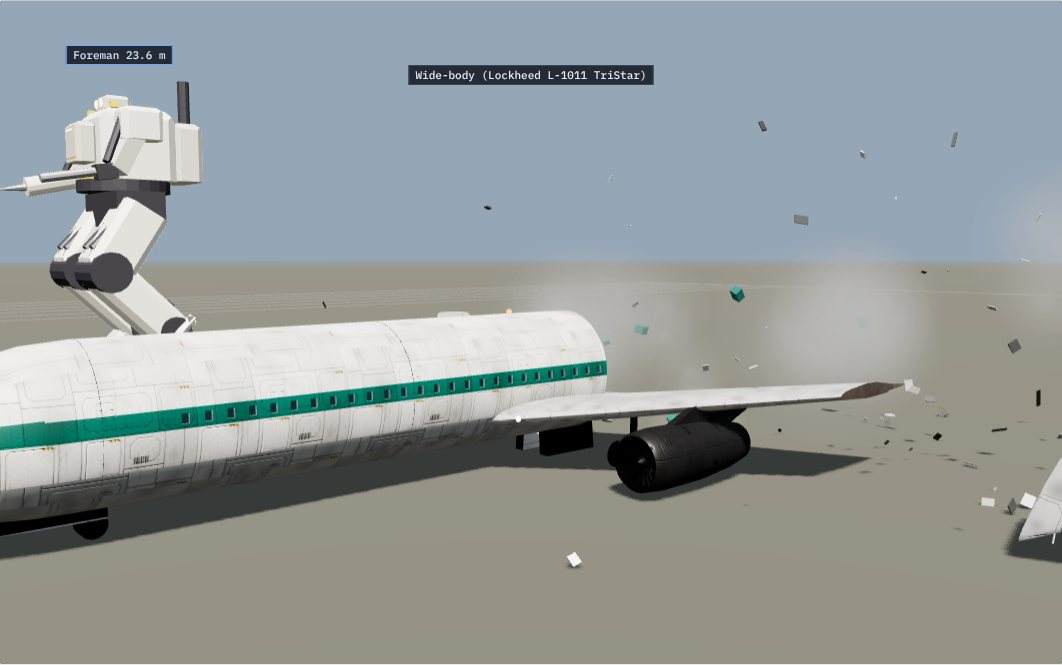
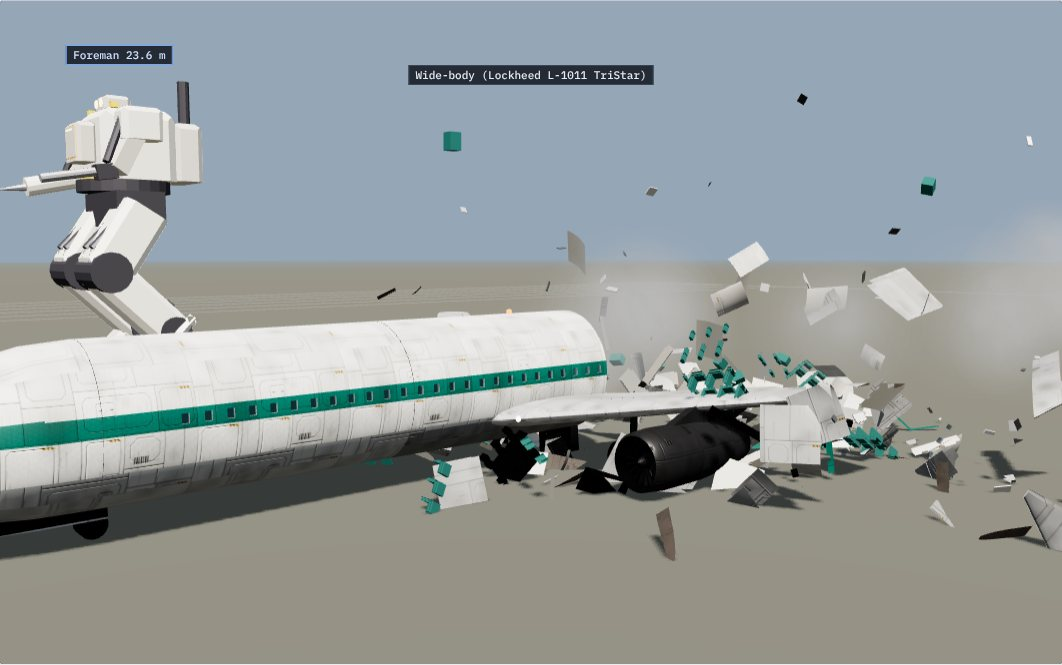
Airliners page: a shot tears big chunks out of the real model, as the boats break
Every triangle near the hit and the torn joint is clipped into 2.2 m cells (the boats' engine's method);
the cells inside fly as chunks of skin, frame, floor and seats, the rest stays as a ragged hole.

Claude-Session: https://claude.ai/code/session_0158CApsWQMLsRjS8gSGiYVS

diff --git a/docs/mockups/airliners.html b/docs/mockups/airliners.html
@@ -389,6 +389,8 @@ document.getElementById("repair").onclick = () => {
   explode.value = 0;
   for (const s of Object.values(planes)) { s.flying = []; for (const z of Object.values(s.zones)) { z.node.position.copy(z.base); z.node.quaternion.copy(z.baseQ); z.node.visible = true; } }
   for (const d of debris) scene.remove(d.mesh); debris.length = 0;
+  for (const g of carved) { g.index.array.set(g.userData.index0); g.index.needsUpdate = true; } carved.length = 0;
+  for (const m of remainders) m.parent && m.parent.remove(m); remainders.length = 0;
   for (const p of puffs) scene.remove(p.sp); puffs.length = 0;
 };
 
@@ -421,8 +423,103 @@ function breakZone(s, z, at) {
   const parent = s.zones[z.z.parent];
   const joint = s.holder.localToWorld(z.centre.clone().add(parent.centre).multiplyScalar(0.5));
   const cabin = /cabin|centre|nose|tail/.test(z.z.name);
-  burst(at || joint, out, cabin, s.man.livery_seat);
-  if (at) burst(joint, out, cabin, s.man.livery_seat, 0.5);
+  // big chunks of the real model, as the boats break: the skin, frames and seats round the hit and both sides of the
+  // torn joint come away in cells of about 2.5 m
+  if (at) carve(s, z.node, at, 4.5, out);
+  carve(s, z.node, joint, 3.0, out);
+  carve(s, parent.node, joint, 2.6, out.clone().negate());
+  burst(at || joint, out, cabin, s.man.livery_seat, 0.45);
+  if (at) burst(joint, out, cabin, s.man.livery_seat, 0.25);
+}
+// Cut a zone's own meshes (its children's are left) into cells of about CHUNK metres round a world point, as the boats'
+// engine cuts a ship (docs/mockups/building_engine.js, fromObject): every triangle touching a cell within `r` is
+// clipped to the cells it crosses; the clipped pieces inside become chunks of the real model, thrown out; the pieces
+// outside are handed back to the zone as a remainder mesh, so the hull keeps a ragged hole, not a missing strip.
+// Repair puts it all back.
+const CHUNK = 2.2;
+const carved = [], remainders = [];
+function clipPoly(poly, axis, at, keep) {
+  const out = [];
+  for (let i = 0; i < poly.length; i++) {
+    const p = poly[i], q = poly[(i + 1) % poly.length];
+    const dp = (p.v.getComponent(axis) - at) * keep, dq = (q.v.getComponent(axis) - at) * keep;
+    if (dp >= 0) out.push(p);
+    if ((dp >= 0) !== (dq >= 0)) {
+      const t = dp / (dp - dq);
+      out.push({ v: p.v.clone().lerp(q.v, t), n: p.n.clone().lerp(q.n, t), u: p.u.clone().lerp(q.u, t) });
+    }
+  }
+  return out;
+}
+function carve(s, zoneNode, at, r, out) {
+  const cells = new Map();
+  const cellNear = (i, j, k) => new T.Vector3((i + 0.5) * CHUNK, (j + 0.5) * CHUNK, (k + 0.5) * CHUNK).distanceTo(at) <= r;
+  for (const mesh of s.meshes) {
+    if (!mesh.visible || zoneOf(mesh) !== zoneNode || !mesh.geometry.index) continue;
+    mesh.updateMatrixWorld();
+    const g = mesh.geometry, idx = g.index, pos = g.attributes.position, nrm = g.attributes.normal, uv = g.attributes.uv;
+    if (!g.userData.index0) g.userData.index0 = idx.array.slice();
+    const nm = new T.Matrix3().getNormalMatrix(mesh.matrixWorld);
+    const inv = new T.Matrix4().copy(mesh.matrixWorld).invert(), invN = new T.Matrix3().getNormalMatrix(inv);
+    const rest = { p: [], n: [], u: [] };
+    let touched = false;
+    for (let t = 0; t < idx.count; t += 3) {
+      const ii = [idx.getX(t), idx.getX(t + 1), idx.getX(t + 2)];
+      if (ii[0] === ii[1] && ii[1] === ii[2]) continue;
+      const tri = ii.map(i => ({ v: new T.Vector3().fromBufferAttribute(pos, i).applyMatrix4(mesh.matrixWorld),
+        n: nrm ? new T.Vector3().fromBufferAttribute(nrm, i).applyMatrix3(nm).normalize() : new T.Vector3(0, 1, 0),
+        u: uv ? new T.Vector2(uv.getX(i), uv.getY(i)) : new T.Vector2() }));
+      const lo = [0, 1, 2].map(a => Math.floor(Math.min(...tri.map(q => q.v.getComponent(a))) / CHUNK));
+      const hi = [0, 1, 2].map(a => Math.floor((Math.max(...tri.map(q => q.v.getComponent(a))) - 1e-6) / CHUNK));
+      let near = false;
+      for (let i = lo[0]; i <= hi[0] && !near; i++) for (let j = lo[1]; j <= hi[1] && !near; j++) for (let k = lo[2]; k <= hi[2] && !near; k++) near = cellNear(i, j, k);
+      if (!near) continue;
+      touched = true;
+      idx.setXYZ(t, ii[0], ii[0], ii[0]);
+      for (let i = lo[0]; i <= hi[0]; i++) for (let j = lo[1]; j <= hi[1]; j++) for (let k = lo[2]; k <= hi[2]; k++) {
+        let poly = tri;
+        const cmin = [i * CHUNK, j * CHUNK, k * CHUNK];
+        for (let a = 0; a < 3 && poly.length >= 3; a++) { poly = clipPoly(poly, a, cmin[a], 1); if (poly.length >= 3) poly = clipPoly(poly, a, cmin[a] + CHUNK, -1); }
+        if (poly.length < 3) continue;
+        let dst;
+        if (cellNear(i, j, k)) {
+          const key = i + "," + j + "," + k + "|" + mesh.material.uuid;
+          if (!cells.has(key)) cells.set(key, { mat: mesh.material, p: [], n: [], u: [] });
+          dst = cells.get(key);
+        } else dst = rest;
+        for (let f = 1; f + 1 < poly.length; f++) for (const q of [poly[0], poly[f], poly[f + 1]]) {
+          const v = dst === rest ? q.v.clone().applyMatrix4(inv) : q.v, n = dst === rest ? q.n.clone().applyMatrix3(invN).normalize() : q.n;
+          dst.p.push(v.x, v.y, v.z); dst.n.push(n.x, n.y, n.z); dst.u.push(q.u.x, q.u.y);
+        }
+      }
+    }
+    if (!touched) continue;
+    idx.needsUpdate = true; carved.push(g);
+    if (rest.p.length) {
+      const rm = new T.Mesh(geoOf(rest), mesh.material);
+      rm.castShadow = true; mesh.add(rm); remainders.push(rm);
+    }
+  }
+  for (const cell of cells.values()) {
+    const geo = geoOf(cell);
+    geo.computeBoundingBox();
+    const ctr = geo.boundingBox.getCenter(new T.Vector3());
+    geo.translate(-ctr.x, -ctr.y, -ctr.z);
+    const mat = cell.mat.clone(); mat.side = T.DoubleSide; mat.clippingPlanes = null;
+    const mesh = new T.Mesh(geo, mat);
+    mesh.position.copy(ctr); mesh.castShadow = true;
+    scene.add(mesh);
+    const dir = ctr.clone().sub(at).normalize().addScaledVector(out, 0.7).add(new T.Vector3(0, 0.6, 0)).normalize();
+    const size = geo.boundingBox.getSize(new T.Vector3());
+    debris.push({ mesh, v: dir.multiplyScalar(4 + Math.random() * 7), w: new T.Vector3(Math.random() - 0.5, Math.random() - 0.5, Math.random() - 0.5).multiplyScalar(3), t: 0, half: Math.min(size.x, size.y, size.z) * 0.5 + 0.05, big: true });
+  }
+}
+function geoOf(b) {
+  const geo = new T.BufferGeometry();
+  geo.setAttribute("position", new T.Float32BufferAttribute(b.p, 3));
+  geo.setAttribute("normal", new T.Float32BufferAttribute(b.n, 3));
+  geo.setAttribute("uv", new T.Float32BufferAttribute(b.u, 2));
+  return geo;
 }
 const debris = [], puffs = [];
 const FRAG = new T.BoxGeometry(1, 1, 1);
@@ -457,9 +554,9 @@ function stepDebris(dt) {
     d.v.y -= 9.81 * dt;
     d.mesh.position.addScaledVector(d.v, dt);
     d.mesh.rotateOnAxis(d.w.clone().normalize(), d.w.length() * dt);
-    const half = d.mesh.scale.y * 0.5;
-    if (d.mesh.position.y < half) { d.mesh.position.y = half; d.v.y *= -0.3; d.v.x *= 0.6; d.v.z *= 0.6; d.w.multiplyScalar(0.6); }
-    if (d.t > 14) { scene.remove(d.mesh); debris.splice(i, 1); }
+    const half = d.half != null ? d.half : d.mesh.scale.y * 0.5;
+    if (d.mesh.position.y < half) { d.mesh.position.y = half; d.v.y *= -0.25; d.v.x *= 0.5; d.v.z *= 0.5; d.w.multiplyScalar(0.5); }
+    if (!d.big && d.t > 14) { scene.remove(d.mesh); debris.splice(i, 1); }
   }
   for (let i = puffs.length - 1; i >= 0; i--) {
     const p = puffs[i]; p.t += dt;
@@ -538,7 +635,7 @@ function markReady() { ready = true; }
 window.MOCKUP_SCENE = scene;
 window.MOCKUP_API = { planes, setGear: t => { gearT = gearTarget = t; }, night: v => { night = v; applyNight(); }, cut: v => { cut = v; applyClip(); }, inside, home,
   explode: v => { explode.value = v; },
-  shoot: (id, zone) => { const s = planes[id]; breakZone(s, s.zones[zone], null); }, show: id => { [...pick.children][["all", ...ORDER].indexOf(id)].click(); }, caps: v => { for (const s of Object.values(planes)) for (const c of s.capsules) c.visible = v; },
+  shoot: (id, zone) => { const s = planes[id], z = s.zones[zone]; breakZone(s, z, s.holder.localToWorld(z.centre.clone())); }, show: id => { [...pick.children][["all", ...ORDER].indexOf(id)].click(); }, caps: v => { for (const s of Object.values(planes)) for (const c of s.capsules) c.visible = v; },
   cam: (p, t) => { camera.position.set(...p); controls.target.set(...t); controls.update(); },
   camOn: (id, p, t) => { const h = planes[id].holder; camera.position.copy(h.localToWorld(new T.Vector3(...p))); controls.target.copy(h.localToWorld(new T.Vector3(...t))); controls.update(); }, lod: n => { [...lods.children][n].click(); } };
 function frame(now) {

diff --git a/tools/mockups/airliners_src.html b/tools/mockups/airliners_src.html
@@ -358,6 +358,8 @@ document.getElementById("repair").onclick = () => {
   explode.value = 0;
   for (const s of Object.values(planes)) { s.flying = []; for (const z of Object.values(s.zones)) { z.node.position.copy(z.base); z.node.quaternion.copy(z.baseQ); z.node.visible = true; } }
   for (const d of debris) scene.remove(d.mesh); debris.length = 0;
+  for (const g of carved) { g.index.array.set(g.userData.index0); g.index.needsUpdate = true; } carved.length = 0;
+  for (const m of remainders) m.parent && m.parent.remove(m); remainders.length = 0;
   for (const p of puffs) scene.remove(p.sp); puffs.length = 0;
 };
 
@@ -390,8 +392,103 @@ function breakZone(s, z, at) {
   const parent = s.zones[z.z.parent];
   const joint = s.holder.localToWorld(z.centre.clone().add(parent.centre).multiplyScalar(0.5));
   const cabin = /cabin|centre|nose|tail/.test(z.z.name);
-  burst(at || joint, out, cabin, s.man.livery_seat);
-  if (at) burst(joint, out, cabin, s.man.livery_seat, 0.5);
+  // big chunks of the real model, as the boats break: the skin, frames and seats round the hit and both sides of the
+  // torn joint come away in cells of about 2.5 m
+  if (at) carve(s, z.node, at, 4.5, out);
+  carve(s, z.node, joint, 3.0, out);
+  carve(s, parent.node, joint, 2.6, out.clone().negate());
+  burst(at || joint, out, cabin, s.man.livery_seat, 0.45);
+  if (at) burst(joint, out, cabin, s.man.livery_seat, 0.25);
+}
+// Cut a zone's own meshes (its children's are left) into cells of about CHUNK metres round a world point, as the boats'
+// engine cuts a ship (docs/mockups/building_engine.js, fromObject): every triangle touching a cell within `r` is
+// clipped to the cells it crosses; the clipped pieces inside become chunks of the real model, thrown out; the pieces
+// outside are handed back to the zone as a remainder mesh, so the hull keeps a ragged hole, not a missing strip.
+// Repair puts it all back.
+const CHUNK = 2.2;
+const carved = [], remainders = [];
+function clipPoly(poly, axis, at, keep) {
+  const out = [];
+  for (let i = 0; i < poly.length; i++) {
+    const p = poly[i], q = poly[(i + 1) % poly.length];
+    const dp = (p.v.getComponent(axis) - at) * keep, dq = (q.v.getComponent(axis) - at) * keep;
+    if (dp >= 0) out.push(p);
+    if ((dp >= 0) !== (dq >= 0)) {
+      const t = dp / (dp - dq);
+      out.push({ v: p.v.clone().lerp(q.v, t), n: p.n.clone().lerp(q.n, t), u: p.u.clone().lerp(q.u, t) });
+    }
+  }
+  return out;
+}
+function carve(s, zoneNode, at, r, out) {
+  const cells = new Map();
+  const cellNear = (i, j, k) => new T.Vector3((i + 0.5) * CHUNK, (j + 0.5) * CHUNK, (k + 0.5) * CHUNK).distanceTo(at) <= r;
+  for (const mesh of s.meshes) {
+    if (!mesh.visible || zoneOf(mesh) !== zoneNode || !mesh.geometry.index) continue;
+    mesh.updateMatrixWorld();
+    const g = mesh.geometry, idx = g.index, pos = g.attributes.position, nrm = g.attributes.normal, uv = g.attributes.uv;
+    if (!g.userData.index0) g.userData.index0 = idx.array.slice();
+    const nm = new T.Matrix3().getNormalMatrix(mesh.matrixWorld);
+    const inv = new T.Matrix4().copy(mesh.matrixWorld).invert(), invN = new T.Matrix3().getNormalMatrix(inv);
+    const rest = { p: [], n: [], u: [] };
+    let touched = false;
+    for (let t = 0; t < idx.count; t += 3) {
+      const ii = [idx.getX(t), idx.getX(t + 1), idx.getX(t + 2)];
+      if (ii[0] === ii[1] && ii[1] === ii[2]) continue;
+      const tri = ii.map(i => ({ v: new T.Vector3().fromBufferAttribute(pos, i).applyMatrix4(mesh.matrixWorld),
+        n: nrm ? new T.Vector3().fromBufferAttribute(nrm, i).applyMatrix3(nm).normalize() : new T.Vector3(0, 1, 0),
+        u: uv ? new T.Vector2(uv.getX(i), uv.getY(i)) : new T.Vector2() }));
+      const lo = [0, 1, 2].map(a => Math.floor(Math.min(...tri.map(q => q.v.getComponent(a))) / CHUNK));
+      const hi = [0, 1, 2].map(a => Math.floor((Math.max(...tri.map(q => q.v.getComponent(a))) - 1e-6) / CHUNK));
+      let near = false;
+      for (let i = lo[0]; i <= hi[0] && !near; i++) for (let j = lo[1]; j <= hi[1] && !near; j++) for (let k = lo[2]; k <= hi[2] && !near; k++) near = cellNear(i, j, k);
+      if (!near) continue;
+      touched = true;
+      idx.setXYZ(t, ii[0], ii[0], ii[0]);
+      for (let i = lo[0]; i <= hi[0]; i++) for (let j = lo[1]; j <= hi[1]; j++) for (let k = lo[2]; k <= hi[2]; k++) {
+        let poly = tri;
+        const cmin = [i * CHUNK, j * CHUNK, k * CHUNK];
+        for (let a = 0; a < 3 && poly.length >= 3; a++) { poly = clipPoly(poly, a, cmin[a], 1); if (poly.length >= 3) poly = clipPoly(poly, a, cmin[a] + CHUNK, -1); }
+        if (poly.length < 3) continue;
+        let dst;
+        if (cellNear(i, j, k)) {
+          const key = i + "," + j + "," + k + "|" + mesh.material.uuid;
+          if (!cells.has(key)) cells.set(key, { mat: mesh.material, p: [], n: [], u: [] });
+          dst = cells.get(key);
+        } else dst = rest;
+        for (let f = 1; f + 1 < poly.length; f++) for (const q of [poly[0], poly[f], poly[f + 1]]) {
+          const v = dst === rest ? q.v.clone().applyMatrix4(inv) : q.v, n = dst === rest ? q.n.clone().applyMatrix3(invN).normalize() : q.n;
+          dst.p.push(v.x, v.y, v.z); dst.n.push(n.x, n.y, n.z); dst.u.push(q.u.x, q.u.y);
+        }
+      }
+    }
+    if (!touched) continue;
+    idx.needsUpdate = true; carved.push(g);
+    if (rest.p.length) {
+      const rm = new T.Mesh(geoOf(rest), mesh.material);
+      rm.castShadow = true; mesh.add(rm); remainders.push(rm);
+    }
+  }
+  for (const cell of cells.values()) {
+    const geo = geoOf(cell);
+    geo.computeBoundingBox();
+    const ctr = geo.boundingBox.getCenter(new T.Vector3());
+    geo.translate(-ctr.x, -ctr.y, -ctr.z);
+    const mat = cell.mat.clone(); mat.side = T.DoubleSide; mat.clippingPlanes = null;
+    const mesh = new T.Mesh(geo, mat);
+    mesh.position.copy(ctr); mesh.castShadow = true;
+    scene.add(mesh);
+    const dir = ctr.clone().sub(at).normalize().addScaledVector(out, 0.7).add(new T.Vector3(0, 0.6, 0)).normalize();
+    const size = geo.boundingBox.getSize(new T.Vector3());
+    debris.push({ mesh, v: dir.multiplyScalar(4 + Math.random() * 7), w: new T.Vector3(Math.random() - 0.5, Math.random() - 0.5, Math.random() - 0.5).multiplyScalar(3), t: 0, half: Math.min(size.x, size.y, size.z) * 0.5 + 0.05, big: true });
+  }
+}
+function geoOf(b) {
+  const geo = new T.BufferGeometry();
+  geo.setAttribute("position", new T.Float32BufferAttribute(b.p, 3));
+  geo.setAttribute("normal", new T.Float32BufferAttribute(b.n, 3));
+  geo.setAttribute("uv", new T.Float32BufferAttribute(b.u, 2));
+  return geo;
 }
 const debris = [], puffs = [];
 const FRAG = new T.BoxGeometry(1, 1, 1);
@@ -426,9 +523,9 @@ function stepDebris(dt) {
     d.v.y -= 9.81 * dt;
     d.mesh.position.addScaledVector(d.v, dt);
     d.mesh.rotateOnAxis(d.w.clone().normalize(), d.w.length() * dt);
-    const half = d.mesh.scale.y * 0.5;
-    if (d.mesh.position.y < half) { d.mesh.position.y = half; d.v.y *= -0.3; d.v.x *= 0.6; d.v.z *= 0.6; d.w.multiplyScalar(0.6); }
-    if (d.t > 14) { scene.remove(d.mesh); debris.splice(i, 1); }
+    const half = d.half != null ? d.half : d.mesh.scale.y * 0.5;
+    if (d.mesh.position.y < half) { d.mesh.position.y = half; d.v.y *= -0.25; d.v.x *= 0.5; d.v.z *= 0.5; d.w.multiplyScalar(0.5); }
+    if (!d.big && d.t > 14) { scene.remove(d.mesh); debris.splice(i, 1); }
   }
   for (let i = puffs.length - 1; i >= 0; i--) {
     const p = puffs[i]; p.t += dt;
@@ -507,7 +604,7 @@ function markReady() { ready = true; }
 window.MOCKUP_SCENE = scene;
 window.MOCKUP_API = { planes, setGear: t => { gearT = gearTarget = t; }, night: v => { night = v; applyNight(); }, cut: v => { cut = v; applyClip(); }, inside, home,
   explode: v => { explode.value = v; },
-  shoot: (id, zone) => { const s = planes[id]; breakZone(s, s.zones[zone], null); }, show: id => { [...pick.children][["all", ...ORDER].indexOf(id)].click(); }, caps: v => { for (const s of Object.values(planes)) for (const c of s.capsules) c.visible = v; },
+  shoot: (id, zone) => { const s = planes[id], z = s.zones[zone]; breakZone(s, z, s.holder.localToWorld(z.centre.clone())); }, show: id => { [...pick.children][["all", ...ORDER].indexOf(id)].click(); }, caps: v => { for (const s of Object.values(planes)) for (const c of s.capsules) c.visible = v; },
   cam: (p, t) => { camera.position.set(...p); controls.target.set(...t); controls.update(); },
   camOn: (id, p, t) => { const h = planes[id].holder; camera.position.copy(h.localToWorld(new T.Vector3(...p))); controls.target.copy(h.localToWorld(new T.Vector3(...t))); controls.update(); }, lod: n => { [...lods.children][n].click(); } };
 function frame(now) {

diff --git a/openspec/changes/airliner-models/design.md b/openspec/changes/airliner-models/design.md
@@ -97,9 +97,12 @@ BeamNG-style part trees, and our own `structural-destruction`):
 8. **Damage shows before it breaks**: smoke at a zone below half its health, fire below a quarter (anchors `FX_*`).
 9. **Debris are the real pieces, and a break throws more** (owner, 2026-10-30: "there should be debris coming out when
    pecies are shot"): a detached zone is its own mesh as a rigid body (`debris-physics`), never a box, trailing smoke
-   and now and then fire as it falls. The break itself throws out a burst at the hit and at the joint: about 45 torn
-   skin and frame fragments (0.1-0.7 m plates), seats and luggage when a cabin section opens, a flash of fire and a
-   cloud of smoke. Near you the fragments are rigid bodies that bounce and settle; far away, a dust puff.
+   and now and then fire as it falls. The break itself tears big chunks out of the real model, as the boats break
+   (owner, 2026-10-30: "need bigger debris chucks like the boats had"): the skin, frames, floor and seats within about
+   4.5 m of the hit and 3 m either side of the torn joint are clipped into cells of about 2.2 m (the boats' engine's
+   method, `docs/mockups/building_engine.js` `fromObject`), each cell a chunk thrown out tumbling, and what is left of
+   each cut triangle stays on the aircraft as a ragged hole. Small fragments, a flash of fire and a cloud of smoke fill
+   it in. Near you the fragments are rigid bodies that bounce and settle; far away, a dust puff.
 10. **Deterministic**: the zone tree, shares and capsules are data; the same hits break the same zones.
 
 | Kind | Zones |
